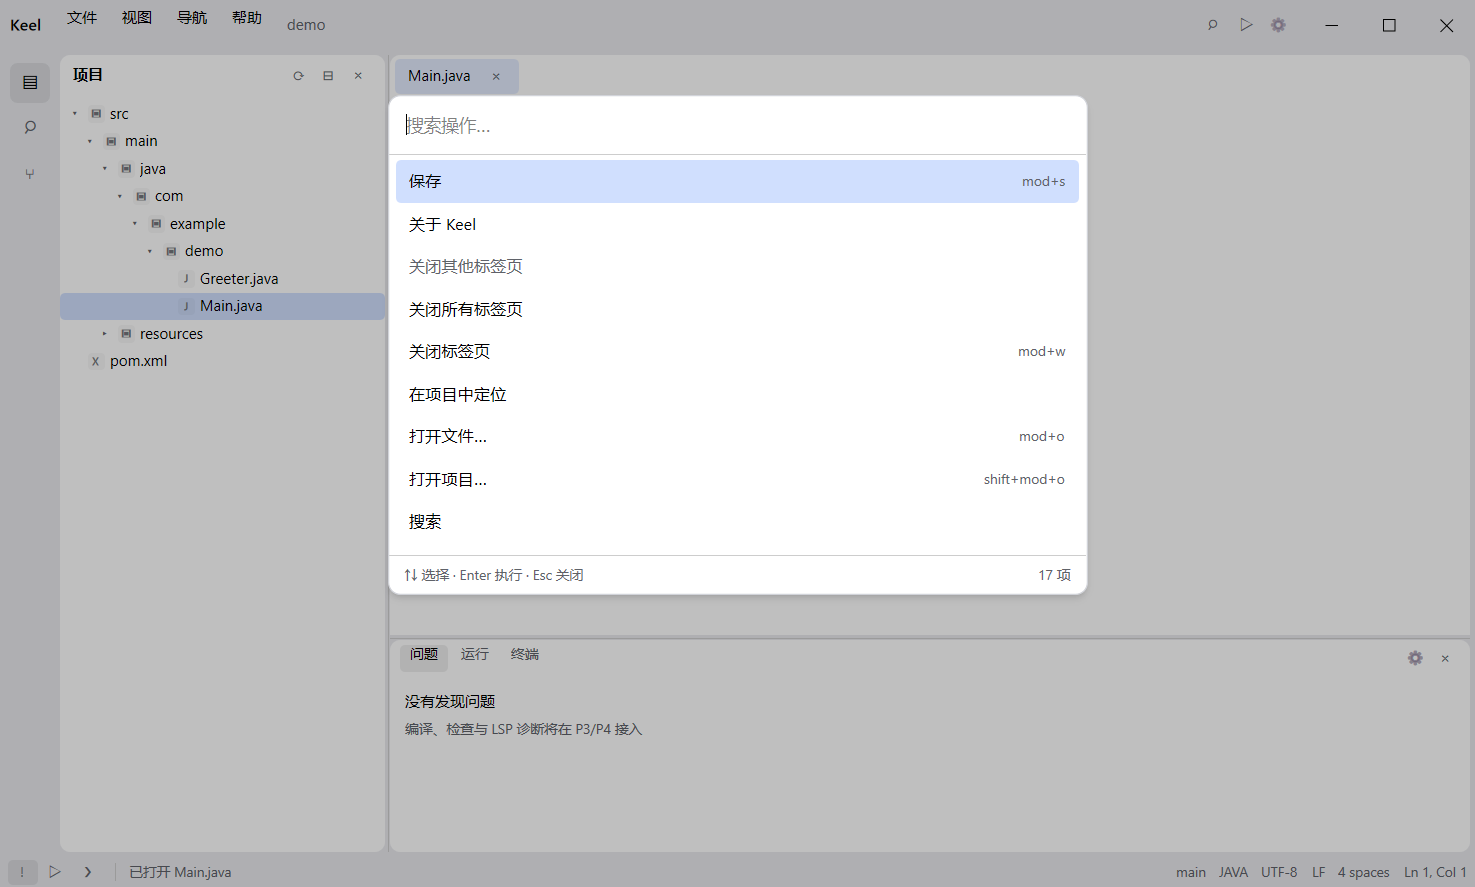
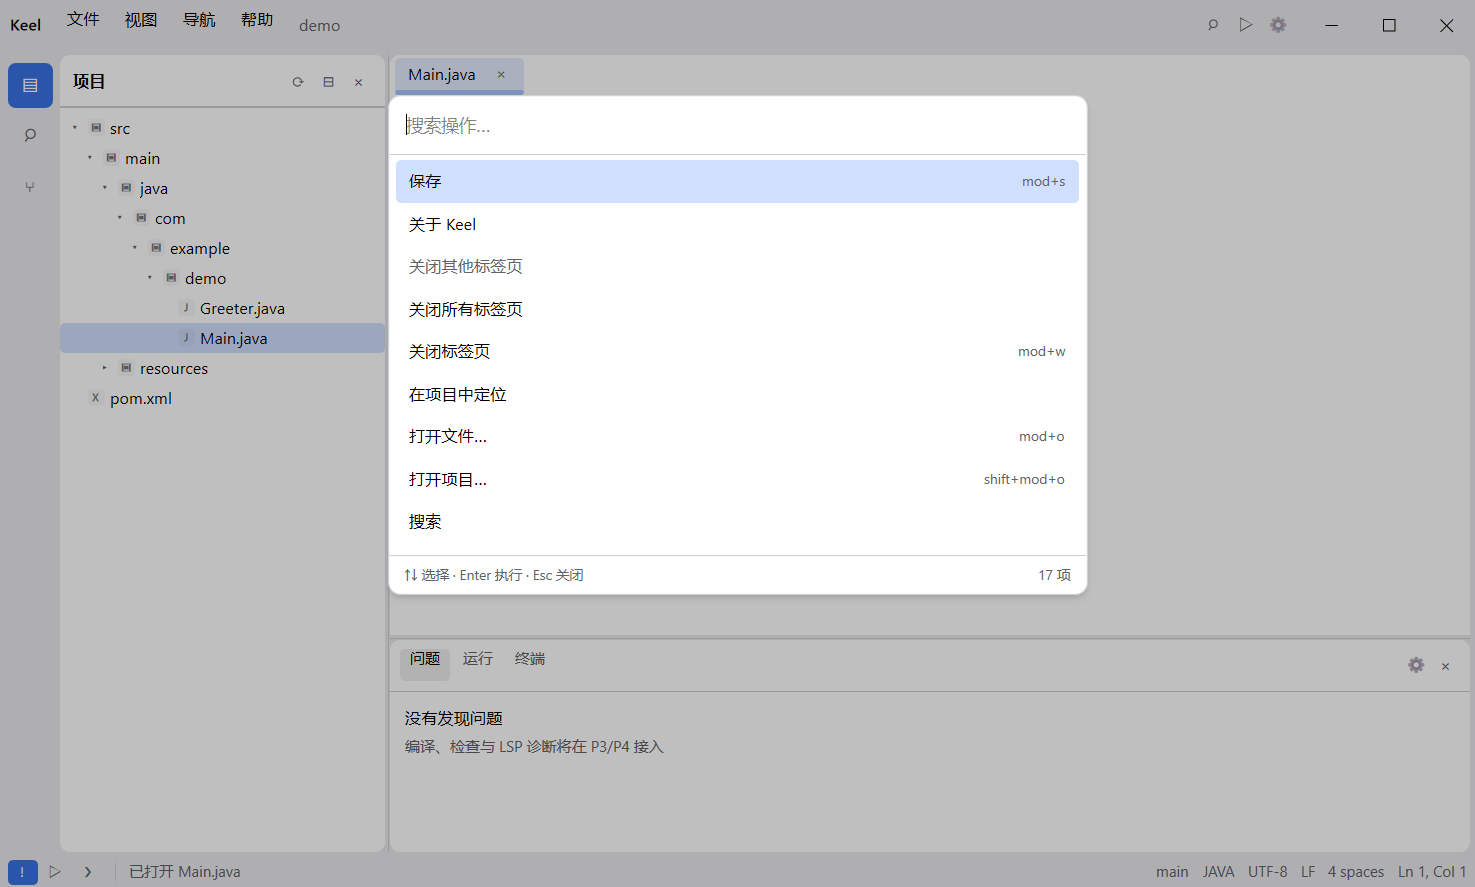
视觉：按 IDEA Islands 源码校准工具窗口、条纹与标签
对照 ManyIslandsLight/Dark 主题与 JBUI 度量：工具窗口头高 41、标题字号 13、选中条纹按钮改为品牌蓝底白图标、编辑器标签补 4px 下划线、树行高 24、状态栏/菜单字号 12-13，并补面板头分隔线；迁移文档新增源码级视觉对照 §4.6，刷新全部截图。

diff --git a/src/editor_area.rs b/src/editor_area.rs
@@ -68,12 +68,9 @@ fn tab(shell: Shell, doc: ReadSignal<Doc>, index: ReadSignal<usize>) -> AnyEleme
     let reveal_path = path.clone();
     let selected = move || ws.active.get() == Some(index.get());
     let body = view()
-        .h(px(28.0))
+        .h(px(30.0))
         .max_w(px(220.0))
-        .flex_row()
-        .items_center()
-        .gap(px(6.0))
-        .px(px(10.0))
+        .flex_col()
         .rounded(px(4.0))
         .style_when(selected, |s| s.bg(move || color_of("tab-selected-bg")))
         .hover(|s| s.bg(move || color_of("control-hover")))
@@ -83,45 +80,61 @@ fn tab(shell: Shell, doc: ReadSignal<Doc>, index: ReadSignal<usize>) -> AnyEleme
             ws.activate_path(&select_path);
         })
         .child(
-            text(move || doc_name(ws, &name_path))
-                .text_size(px(12.0))
-                .number_of_lines(1)
-                .style_when(move || doc_preview(ws, &preview_path), |s| s.italic())
-                .text_color(move || {
-                    if selected() {
-                        theme().foreground
-                    } else {
-                        color_of("muted-fg")
-                    }
-                }),
-        )
-        .child(
-            text(move || {
-                if doc_dirty(ws, &dirty_path) {
-                    "●"
-                } else {
-                    ""
-                }
-            })
-            .text_size(px(8.0))
-            .text_color(move || color_of("muted-fg")),
+            view()
+                .flex_1()
+                .flex_row()
+                .items_center()
+                .gap(px(6.0))
+                .px(px(10.0))
+                .child(
+                    text(move || doc_name(ws, &name_path))
+                        .text_size(px(13.0))
+                        .number_of_lines(1)
+                        .style_when(move || doc_preview(ws, &preview_path), |s| s.italic())
+                        .text_color(move || {
+                            if selected() {
+                                theme().foreground
+                            } else {
+                                color_of("muted-fg")
+                            }
+                        }),
+                )
+                .child(
+                    text(move || {
+                        if doc_dirty(ws, &dirty_path) {
+                            "●"
+                        } else {
+                            ""
+                        }
+                    })
+                    .text_size(px(8.0))
+                    .text_color(move || color_of("muted-fg")),
+                )
+                .child(
+                    view()
+                        .w(px(16.0))
+                        .h(px(16.0))
+                        .items_center()
+                        .justify_center()
+                        .rounded(px(3.0))
+                        .role(AccessibilityRole::Button)
+                        .label("关闭")
+                        .hover(|s| s.bg(move || color_of("control-hover")))
+                        .on_press(move || ws.close_path(&close_path))
+                        .child(
+                            text("×")
+                                .text_size(px(12.0))
+                                .text_color(move || color_of("muted-fg")),
+                        ),
+                ),
         )
         .child(
             view()
-                .w(px(16.0))
-                .h(px(16.0))
-                .items_center()
-                .justify_center()
-                .rounded(px(3.0))
-                .role(AccessibilityRole::Button)
-                .label("关闭")
-                .hover(|s| s.bg(move || color_of("control-hover")))
-                .on_press(move || ws.close_path(&close_path))
-                .child(
-                    text("×")
-                        .text_size(px(12.0))
-                        .text_color(move || color_of("muted-fg")),
-                ),
+                .h(px(4.0))
+                .w_full()
+                .rounded(px(2.0))
+                .bg(move || color_of("tab-underline"))
+                .style_when(move || !selected(), |s| s.hidden()),
         );
 
     context_menu()
@@ -157,9 +170,9 @@ fn breadcrumbs(ws: Workspace) -> impl IntoElement {
             }
             text_value.push_str(&part);
         }
-        view().h(px(26.0)).px(px(12.0)).justify_center().child(
+        view().h(px(28.0)).px(px(12.0)).justify_center().child(
             text(text_value)
-                .text_size(px(11.0))
+                .text_size(px(12.0))
                 .text_color(move || color_of("muted-fg"))
                 .number_of_lines(1),
         )

diff --git a/src/ui.rs b/src/ui.rs
@@ -33,7 +33,7 @@ pub fn menu_trigger(label: impl Into<SharedString>) -> impl IntoElement {
         .items_center()
         .rounded(px(4.0))
         .hover(|s| s.bg(move || color_of("control-hover")))
-        .child(text(label).text_size(px(12.0)))
+        .child(text(label).text_size(px(13.0)))
 }
 
 /// 子菜单的触发器：左标签、右箭头。
@@ -47,10 +47,10 @@ pub fn submenu_trigger(label: impl Into<SharedString>) -> View {
         .gap(px(12.0))
         .rounded(px(4.0))
         .hover(|s| s.bg(move || theme().accent))
-        .child(text(label).text_size(px(12.0)).flex_1())
+        .child(text(label).text_size(px(13.0)).flex_1())
         .child(
             text("›")
-                .text_size(px(11.0))
+                .text_size(px(12.0))
                 .text_color(move || color_of("muted-fg")),
         )
 }
@@ -74,10 +74,10 @@ pub fn menu_action(
                 .flex_row()
                 .items_center()
                 .gap(px(20.0))
-                .child(text(label).text_size(px(12.0)).flex_1())
+                .child(text(label).text_size(px(13.0)).flex_1())
                 .child(
                     text(shortcut)
-                        .text_size(px(11.0))
+                        .text_size(px(12.0))
                         .text_color(move || color_of("muted-fg")),
                 ),
         )
@@ -105,7 +105,7 @@ pub fn icon_button(glyph: &'static str, label: &'static str, action: impl Fn() +
         .on_press(action)
         .child(
             text(glyph)
-                .text_size(px(12.0))
+                .text_size(px(13.0))
                 .text_color(move || color_of("muted-fg")),
         )
 }
@@ -120,22 +120,19 @@ pub fn stripe_button(
     let active: Rc<dyn Fn() -> bool> = Rc::new(active);
     let (bg_active, fg_active) = (active.clone(), active.clone());
     view()
-        .w(px(32.0))
-        .h(px(32.0))
+        .w(px(36.0))
+        .h(px(36.0))
         .items_center()
         .justify_center()
         .rounded(px(6.0))
         .role(AccessibilityRole::Button)
         .label(label)
-        .style_when(
-            move || bg_active(),
-            |s| s.bg(move || color_of("control-hover")),
-        )
+        .style_when(move || bg_active(), |s| s.bg(move || theme().primary))
         .hover(|s| s.bg(move || color_of("hover-overlay")))
         .on_press(action)
         .child(text(glyph).text_size(px(15.0)).text_color(move || {
             if fg_active() {
-                theme().foreground
+                theme().primary_foreground
             } else {
                 color_of("muted-fg")
             }

diff --git a/src/bottom_panel.rs b/src/bottom_panel.rs
@@ -25,7 +25,7 @@ pub fn bottom_bar(shell: Shell) -> impl IntoElement {
                 .rounded(px(4.0))
                 .role(AccessibilityRole::Button)
                 .label(bottom.label())
-                .style_when(active, |s| s.bg(move || color_of("control-hover")))
+                .style_when(active, |s| s.bg(move || theme().primary))
                 .hover(|s| s.bg(move || color_of("hover-overlay")))
                 .on_press(move || shell.toggle_bottom(bottom))
                 .child(
@@ -33,7 +33,7 @@ pub fn bottom_bar(shell: Shell) -> impl IntoElement {
                         .text_size(px(11.0))
                         .text_color(move || {
                             if active() {
-                                color_of("secondary-fg")
+                                theme().primary_foreground
                             } else {
                                 color_of("muted-fg")
                             }
@@ -49,12 +49,13 @@ pub fn bottom_panel(shell: Shell) -> impl IntoElement {
         .rounded(px(8.0))
         .bg(move || color_of("island-bg"))
         .child(panel_header(shell))
+        .child(view().h(px(1.0)).bg(move || color_of("separator-line")))
         .child(panel_content(shell))
 }
 
 fn panel_header(shell: Shell) -> impl IntoElement {
     view()
-        .h(px(30.0))
+        .h(px(41.0))
         .flex_row()
         .items_center()
         .px(px(8.0))
@@ -83,7 +84,7 @@ fn panel_header(shell: Shell) -> impl IntoElement {
 fn tab_button(shell: Shell, bottom: Bottom) -> View {
     let active = move || shell.bottom.get() == Some(bottom);
     view()
-        .h(px(22.0))
+        .h(px(26.0))
         .px(px(8.0))
         .items_center()
         .rounded(px(4.0))
@@ -94,7 +95,7 @@ fn tab_button(shell: Shell, bottom: Bottom) -> View {
         .on_press(move || shell.bottom.set(Some(bottom)))
         .child(
             text(bottom.label())
-                .text_size(px(11.0))
+                .text_size(px(12.0))
                 .text_color(move || {
                     if active() {
                         theme().foreground
@@ -117,10 +118,10 @@ fn panel_content(shell: Shell) -> impl IntoElement {
             .flex_1()
             .p(px(12.0))
             .gap(px(6.0))
-            .child(text(title).text_size(px(12.0)))
+            .child(text(title).text_size(px(13.0)))
             .child(
                 text(hint)
-                    .text_size(px(11.0))
+                    .text_size(px(12.0))
                     .text_color(move || color_of("muted-fg")),
             )
     })

diff --git a/src/project_panel.rs b/src/project_panel.rs
@@ -38,6 +38,7 @@ pub fn side_panel(shell: Shell) -> View {
         .rounded(px(8.0))
         .bg(move || color_of("island-bg"))
         .child(panel_header(shell))
+        .child(view().h(px(1.0)).bg(move || color_of("separator-line")))
         .child(
             project_panel(shell)
                 .style_when(move || shell.tool.get() != Tool::Project, |s| s.hidden()),
@@ -51,14 +52,14 @@ pub fn side_panel(shell: Shell) -> View {
 /// 面板标题栏：标题 + 刷新 / 收起全部 / 隐藏。
 fn panel_header(shell: Shell) -> impl IntoElement {
     view()
-        .h(px(32.0))
+        .h(px(41.0))
         .flex_row()
         .items_center()
         .px(px(10.0))
         .gap(px(2.0))
         .child(
             text(move || shell.tool.get().label())
-                .text_size(px(12.0))
+                .text_size(px(13.0))
                 .font_weight(FontWeight::SEMIBOLD)
                 .flex_1(),
         )
@@ -85,12 +86,12 @@ fn placeholder(shell: Shell) -> View {
         .gap(px(6.0))
         .child(
             text(move || format!("{}工具窗口", shell.tool.get().label()))
-                .text_size(px(12.0))
+                .text_size(px(13.0))
                 .text_color(move || color_of("muted-fg")),
         )
         .child(
             text("内容将在 P4 迁移")
-                .text_size(px(11.0))
+                .text_size(px(12.0))
                 .text_color(move || color_of("muted-fg")),
         )
 }
@@ -150,7 +151,7 @@ fn tree_row(shell: Shell, row: TreeRow) -> AnyElement {
     let open = row.open;
     let selected = move || ws.selected.get().as_ref() == Some(&selected_id);
     let body = view()
-        .h(px(22.0))
+        .h(px(24.0))
         .flex_row()
         .items_center()
         .gap(px(4.0))
@@ -200,7 +201,7 @@ fn tree_row(shell: Shell, row: TreeRow) -> AnyElement {
         .child(file_badge(row.id.as_ref(), row.folder))
         .child(
             text(row.label)
-                .text_size(px(12.0))
+                .text_size(px(13.0))
                 .text_color(move || theme().foreground)
                 .number_of_lines(1),
         );

diff --git a/src/lib.rs b/src/lib.rs
@@ -92,7 +92,7 @@ fn title_bar_row(shell: Shell) -> impl IntoElement {
         .children(menus)
         .child(
             text(move || shell.ws.root_name())
-                .text_size(px(12.0))
+                .text_size(px(13.0))
                 .text_color(move || color_of("muted-fg"))
                 .number_of_lines(1)
                 .pl(px(8.0)),
@@ -173,14 +173,14 @@ fn status_bar(shell: Shell) -> impl IntoElement {
         )
         .child(
             text(move || ws.message.get())
-                .text_size(px(11.0))
+                .text_size(px(12.0))
                 .number_of_lines(1),
         )
         .child(view().flex_1())
-        .child(text("main").text_size(px(11.0)))
-        .child(text(move || editor_area::active_language(ws)).text_size(px(11.0)))
-        .child(text("UTF-8").text_size(px(11.0)))
-        .child(text("LF").text_size(px(11.0)))
-        .child(text("4 spaces").text_size(px(11.0)))
-        .child(text(move || ws.cursor.get()).text_size(px(11.0)))
+        .child(text("main").text_size(px(12.0)))
+        .child(text(move || editor_area::active_language(ws)).text_size(px(12.0)))
+        .child(text("UTF-8").text_size(px(12.0)))
+        .child(text("LF").text_size(px(12.0)))
+        .child(text("4 spaces").text_size(px(12.0)))
+        .child(text(move || ws.cursor.get()).text_size(px(12.0)))
 }

diff --git a/src/commands.rs b/src/commands.rs
@@ -212,10 +212,10 @@ fn action_item(shell: Shell, id: ActionId, presentation: Presentation) -> AnyEle
                 .flex_row()
                 .items_center()
                 .gap(px(20.0))
-                .child(text(label).text_size(px(12.0)).flex_1())
+                .child(text(label).text_size(px(13.0)).flex_1())
                 .child(
                     text(shortcut)
-                        .text_size(px(11.0))
+                        .text_size(px(12.0))
                         .text_color(move || color_of("muted-fg")),
                 ),
         )

diff --git a/docs/NSH_MIGRATION_PLAN.md b/docs/NSH_MIGRATION_PLAN.md
@@ -397,6 +397,35 @@ keel-core
 4. **ToolWindow 描述表**：把硬编码枚举换成描述符注册表，先不实现浮动 / 拖放。
 5. **设置与持久化**：最近项目、会话、主题选择（P4）。
 
+### 4.6 源码级视觉对照（2026-11-12）
+
+对照 `intellij-community/platform/platform-resources/src/themes/islands/ManyIslandsLight.theme.json`、
+`expUI_light.theme.json` 与 `platform/util/ui/src/com/intellij/util/ui/JBUI.java`，
+本轮校准了以下度量与颜色：
+
+| 项 | IDEA 源值 | 本轮调整 |
+| --- | --- | --- |
+| 主窗口背景 | `main-window-bg = layer-0-bg = gray-150 #E9EAEE` | 一致（`canvas`） |
+| Tool window 背景 | `tool-window-bg = layer-2-bg = white` | 一致（`island-bg`） |
+| Tool window 头高 | `JBUI.defaultHeaderHeight() = 41` | 32 → 41，并补底部分隔线 |
+| Tool window 头字号 | `ToolWindow.Header.font.size.offset = 0`（默认 UI 字号） | 12 → 13 |
+| 选中条纹按钮 | `ToolWindow.Button.selectedBackground = accent-brand-bg #3871E1`，`selectedForeground = text-over-accent` | 灰底 → 蓝底白图标 |
+| 选中编辑器标签 | `underlinedTabBackground = blue-150 #E3EBFE`，`underline = blue-120 #A7C5FF`，`underlineHeight = 4` | 补 4px 下划线；标签 28 → 30 |
+| 标签未选中 | `unselectedAlpha = 0.75`、`unselectedBlend = 0.9` | 仍用 `muted-fg` 近似 |
+| 项目树行高 / 字号 | IDEA 常规 24 / 13 | 22 → 24，12 → 13 |
+| 状态栏 | `background = main-window-bg`、`topBorderWidth = 0` | 一致；字号 11 → 12 |
+| 条纹按钮尺寸 | `StripeToolbar.Button = 37×40` | 32 → 36（条纹宽 40） |
+| 弹出菜单 | `popup-bg = layer-2-bg`、`popup-border = layer-2-border` | 一致 |
+
+仍存在的视觉差距：
+
+- 菜单没有图标 / 助记符下划线；文件图标仍是字母徽标；
+- 面包屑是纯文本，IDEA 是可点击的 crumb（悬停底色、箭头）；
+- 标签关闭按钮始终显示，IDEA 悬停 / 激活才显示；标签溢出时没有滚动箭头；
+- 主工具栏只有搜索 / 运行 / 设置三个图标，IDEA 有完整的 run widget 与搜索框；
+- 窗口按钮由系统绘制，不是自绘；
+- 状态栏缺少内存、后台任务等部件。
+
 
 ### P1：抽 `keel-core`
 
